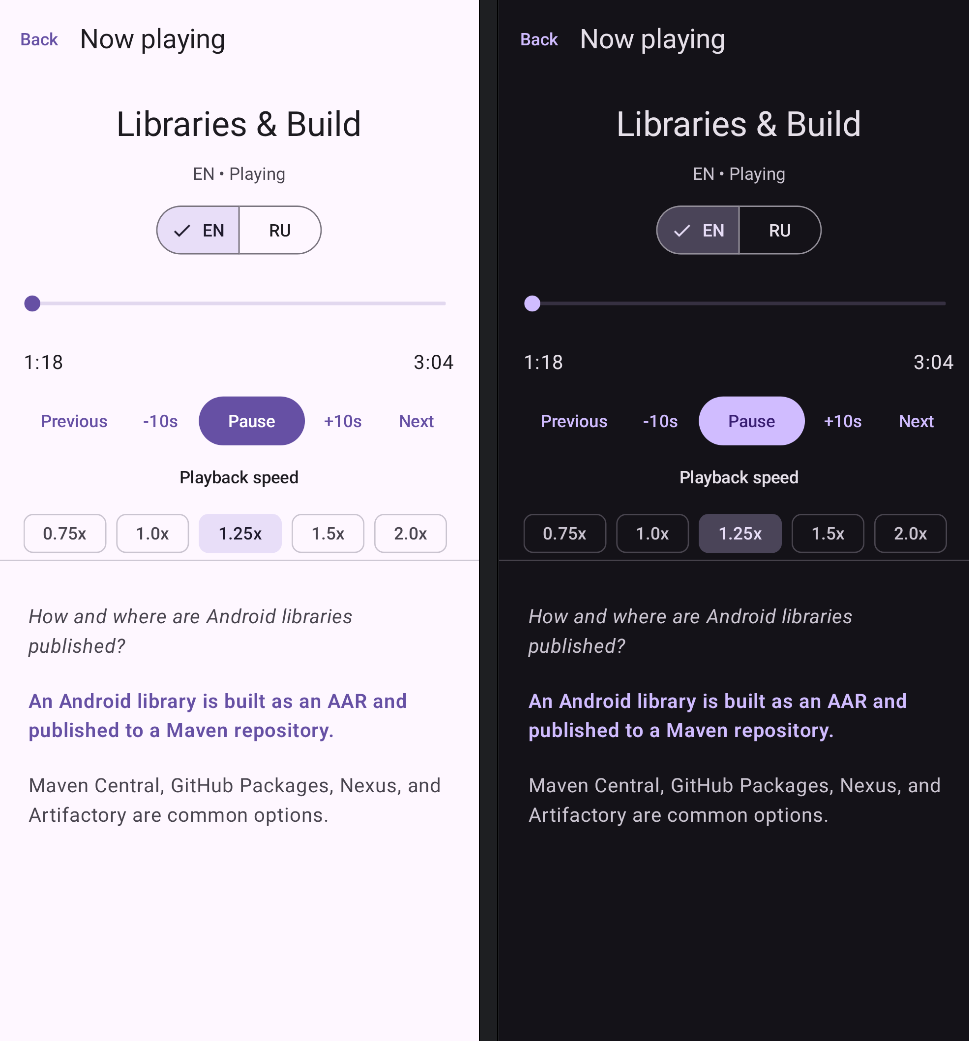
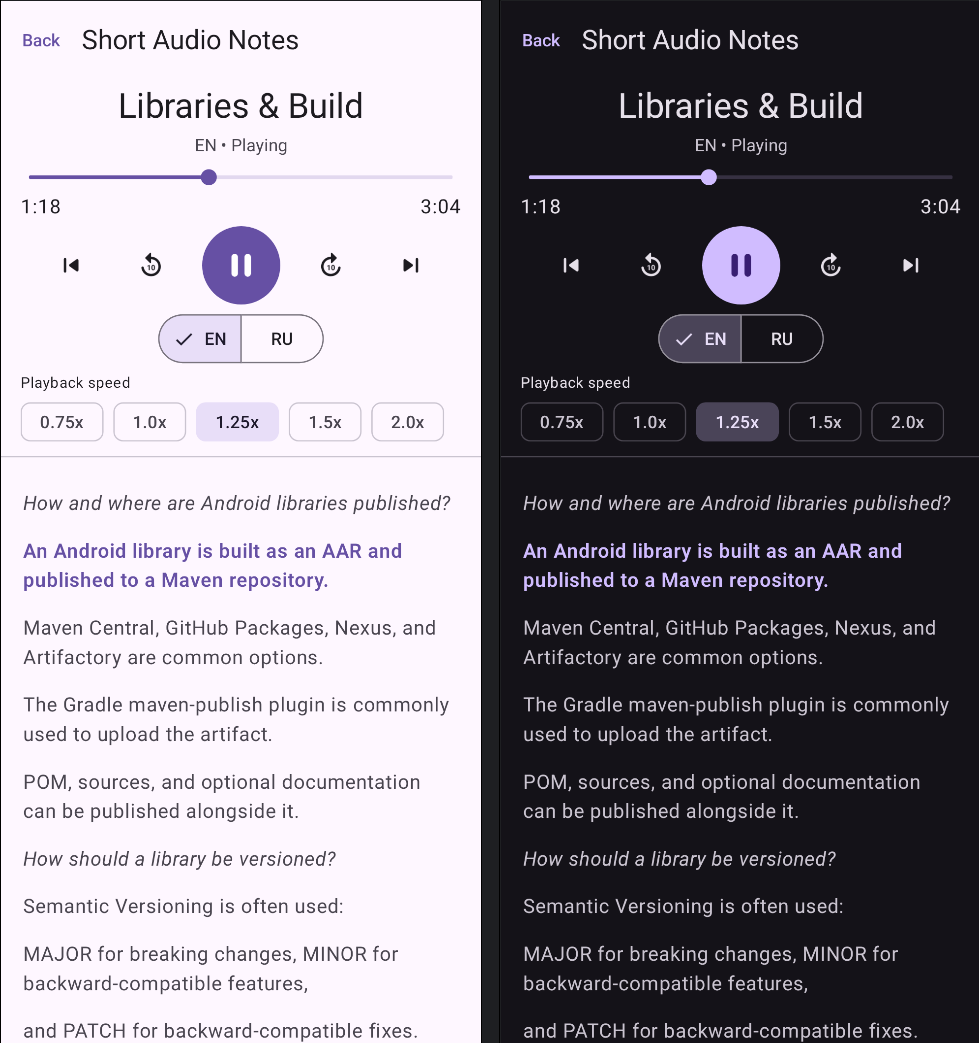
Update player showcase

diff --git a/README.md b/README.md
@@ -4,28 +4,35 @@ Android Handbook Audio is a native Android companion app for [Android Dev Handbo
 
 The first content source is **Short Audio Notes**: concise topics covering Android, Kotlin, Computer Science, Coroutines, Architecture, Networking, Testing, and related areas in English and Russian.
 
-## 📱 Player
-
-![Full player with synchronized transcript in light and dark themes](screenshots/player-light-dark.png)
-
-## ✨ Goals
-
-- Browse remote playlists and tracks.
-- Stream audio directly from the Handbook.
-- Support English and Russian content.
-- Provide background playback and media controls.
-- Provide synchronized transcripts with active cue highlighting and tap-to-seek.
-
-## 🛠 Tech stack
-
-- Kotlin
-- Jetpack Compose + Material 3
-- AndroidX Navigation 3
-- MVVM + StateFlow
-- Hilt
-- Retrofit / OkHttp / Kotlin Serialization
-- AndroidX Media3
-- DataStore
+<table>
+  <tr>
+    <td valign="top" width="40%">
+      <h2>✨ Goals</h2>
+      <ul>
+        <li>Browse remote playlists and tracks.</li>
+        <li>Stream audio directly from the Handbook.</li>
+        <li>Support English and Russian content.</li>
+        <li>Provide background playback and media controls.</li>
+        <li>Provide synchronized transcripts with active cue highlighting and tap-to-seek.</li>
+      </ul>
+      <h2>🛠 Tech stack</h2>
+      <ul>
+        <li>Kotlin</li>
+        <li>Jetpack Compose + Material 3</li>
+        <li>AndroidX Navigation 3</li>
+        <li>MVVM + StateFlow</li>
+        <li>Hilt</li>
+        <li>Retrofit / OkHttp / Kotlin Serialization</li>
+        <li>AndroidX Media3</li>
+        <li>DataStore</li>
+      </ul>
+    </td>
+    <td valign="top" width="60%">
+      <h2>📱 Player</h2>
+      <img src="./screenshots/player-light-dark.png" alt="Full player with synchronized transcript in light and dark themes" width="100%">
+    </td>
+  </tr>
+</table>
 
 ## 🌐 Data source
 
